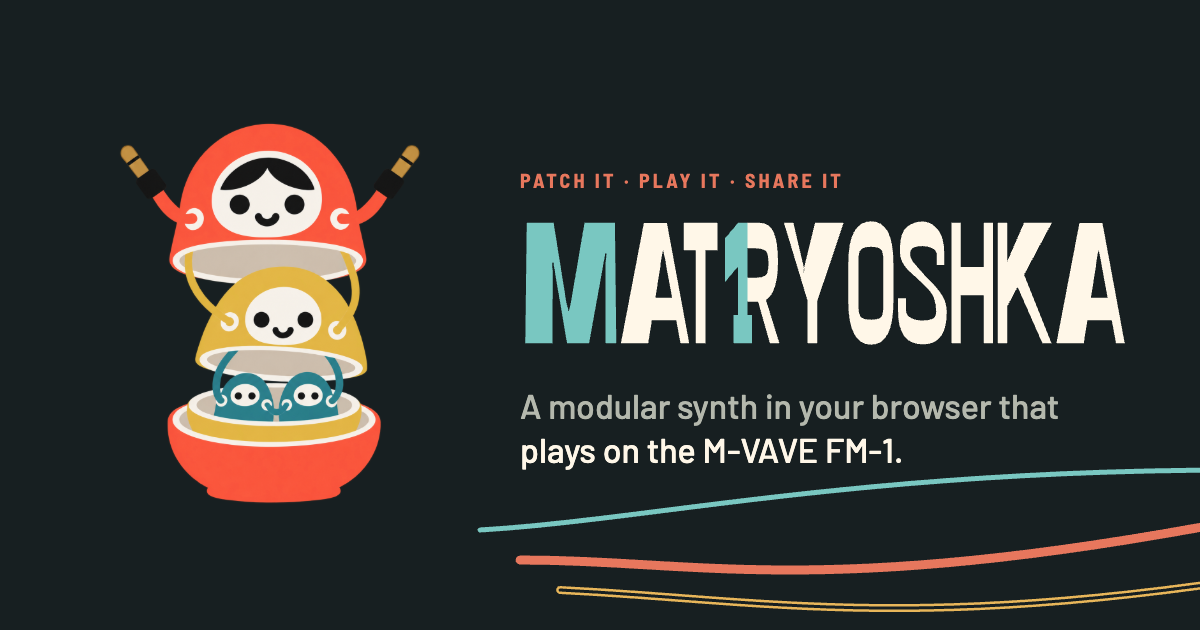
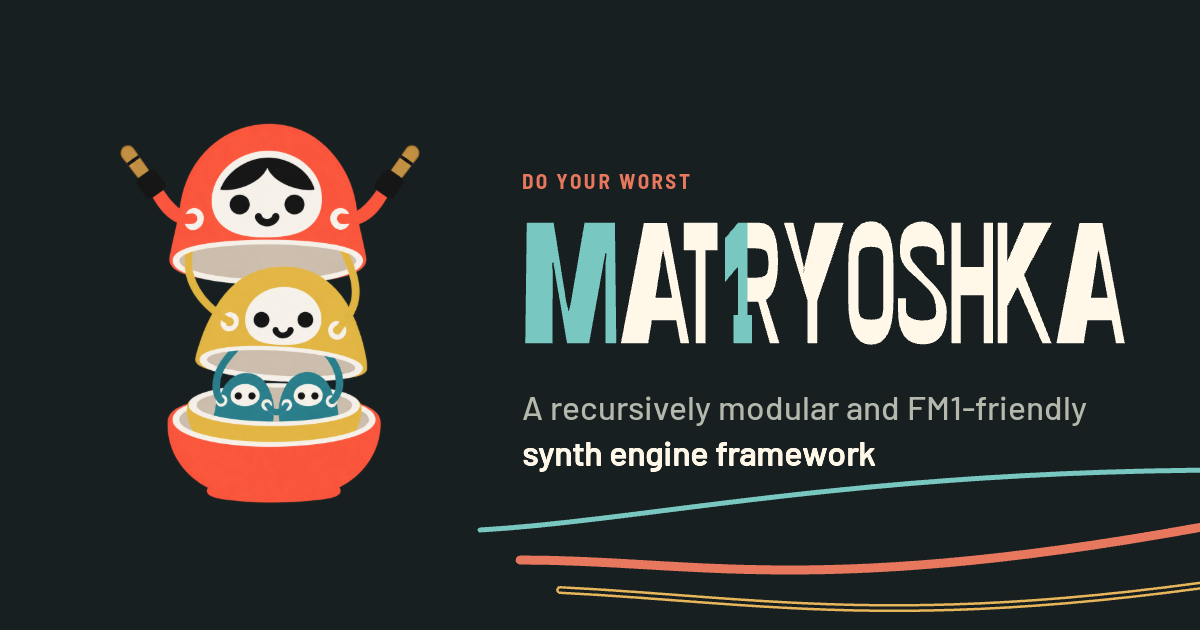
Link card: DO YOUR WORST, and the tagline as its description
The og-image's "Patch it · play it · share it" becomes "DO YOUR WORST",
and its line under the name, the og: / twitter: descriptions, the meta
description, the About card and the README all read "A recursively
modular and FM1-friendly synth engine framework". D-059 amended.

Claude-Session: https://claude.ai/code/session_01468bfGSLwRYbZ12GZCwqVQ

Changed region(s): [[0.4317, 0.6333, 0.925, 0.754], [0.4317, 0.2714, 0.7092, 0.3016]]

diff --git a/web/index.html b/web/index.html
@@ -4,13 +4,13 @@
   <meta charset="utf-8" />
   <meta name="viewport" content="width=device-width, initial-scale=1" />
   <title>Matryoshka</title>
-  <meta name="description" content="A recursively modular and FM1-friendly synth framework" />
+  <meta name="description" content="A recursively modular and FM1-friendly synth engine framework" />
   <!-- link previews (#165): one generic card for every link; the patch in a link's fragment never reaches a server.
        The address placeholders are src/site.ts's SITE_URL, filled in by vite.config.ts -->
   <meta property="og:type" content="website" />
   <meta property="og:site_name" content="Matryoshka" />
   <meta property="og:title" content="Matryoshka" />
-  <meta property="og:description" content="A modular synth in your browser that plays on the M-VAVE FM-1. Open a shared patch and play it, no install." />
+  <meta property="og:description" content="A recursively modular and FM1-friendly synth engine framework" />
   <meta property="og:url" content="%SITE_URL%" />
   <meta property="og:image" content="%SITE_URL%brand/og-image.png" />
   <meta property="og:image:width" content="1200" />
@@ -18,7 +18,7 @@
   <meta property="og:image:alt" content="The Matryoshka dolls and wordmark: a modular synth in your browser that plays on the M-VAVE FM-1" />
   <meta name="twitter:card" content="summary_large_image" />
   <meta name="twitter:title" content="Matryoshka" />
-  <meta name="twitter:description" content="A modular synth in your browser that plays on the M-VAVE FM-1. Open a shared patch and play it, no install." />
+  <meta name="twitter:description" content="A recursively modular and FM1-friendly synth engine framework" />
   <meta name="twitter:image" content="%SITE_URL%brand/og-image.png" />
   <link rel="icon" type="image/png" href="./brand/matryoshka.png" />
   <link rel="stylesheet" href="/src/style.css" />

diff --git a/web/src/about.ts b/web/src/about.ts
@@ -170,7 +170,7 @@ export class AboutCard {
         <div class="about-main">
           <div class="about-brand-row">${logoHtml()}
             <div><img class="brand-mark" src="./brand/wordmark.svg" alt="Matryoshka" />
-            <p class="muted">A recursively modular and FM1-friendly synth framework</p></div></div>
+            <p class="muted">A recursively modular and FM1-friendly synth engine framework</p></div></div>
           <p class="about-sponsor">${link(SPONSORS, 'Sponsor on GitHub')}</p>
           ${passage(COPY.intro, 'Your words for supporters go here')}
           <section class="hsec ai-usage"><h3>Slop Disclosure</h3><div class="ai-live"></div>

diff --git a/docs/ledger/project.md b/docs/ledger/project.md
@@ -15,7 +15,7 @@ Matryoshka is a standalone **hard fork** of Modular-1, owned and decided by mich
 | <a id="D-056"></a>D-056 | glvno/matryoshka is a [**hard fork**](vocabulary.md#hard-fork) that stands alone and does not sync with upstream. The `upstream` remote (WiggisModular/Modular-1) is fetch-only, with its push URL set to `DISABLED`. Work is tracked in GitHub issues on glvno/matryoshka, never upstream. | Decided | 2026-10-17 | commit 012c12d; `docs/agents/issue-tracker.md` |
 | <a id="D-057"></a>D-057 | Instruments modelled on famous synthesizers get names of their own (Oracle V, Monolith D, …) that point at the originals. Nothing is presented as affiliated with the original makers or with M-VAVE. | Decided | 2026-10-17 | commit 9cb3053; `README.md`; `LICENSING.md`; PR #205 |
 | <a id="D-058"></a>D-058 | Velo (charlesvestal/fm1-velocity) is tracked, not ported: a weekly workflow comments on issue #56 only when that repository has new commits. | Decided | 2026-10-17 | commit 0cf4b00; issue #56 |
-| <a id="D-059"></a>D-059 | The project tagline is "A recursively modular and FM1-friendly synth framework". The About card, the page's meta description and the README use it. | Decided | 2026-10-19 | issue #124; commit f3449a3 |
+| <a id="D-059"></a>D-059 | The project tagline is "A recursively modular and FM1-friendly synth engine framework". The About card, the page's meta description, the link card's description (og: and twitter:) and the README use it. The link card image (`web/public/brand/og-image.png`) shows it under the name, with "DO YOUR WORST" above the name. **Amended 2026-10-24 (michael glaviano):** "synth framework" became "synth engine framework", and the link card took the tagline and "DO YOUR WORST" in place of "Patch it · play it · share it" and its own description. | Decided, amended | 2026-10-19 → 2026-10-24 | issue #124; commit f3449a3 |
 | <a id="D-060"></a>D-060 | Development happens on macOS only. | Decided | 2026-10-19 | commit d84ed2d |
 | <a id="D-061"></a>D-061 | In user-visible text "[**engine**](vocabulary.md#engine)" means an engine assembly, never the audio runtime. Runtime error lines say "audio" instead. Code names (`engine.ts`, `engine.c`, `ENG_*`) stay. | Decided | 2026-10-21 | issue #159 |
 | <a id="D-062"></a>D-062 | The software is called Matryoshka wherever users see a name: the USB product string, build outputs, the bundled firmware, storage keys and the assembly format. Old Modular-1 storage keys and files are still read. Upstream credits, GPL notices and the `modular-1-v*` tags keep Modular-1. | Decided | 2026-10-21 | commit 6ce4b9e; commit 2b14530; commit e562ef2; issue #140 |

diff --git a/README.md b/README.md
@@ -11,7 +11,7 @@
 
 # Matryoshka
 
-A recursively modular and **FM1**-friendly synth framework, with a browser patch editor and reusable, nested assemblies.
+A recursively modular and **FM1**-friendly synth engine framework, with a browser patch editor and reusable, nested assemblies.
 
 **Modules** are the building blocks -- a single oscillator, a VCA, a filter, a delay, whatever.
 
